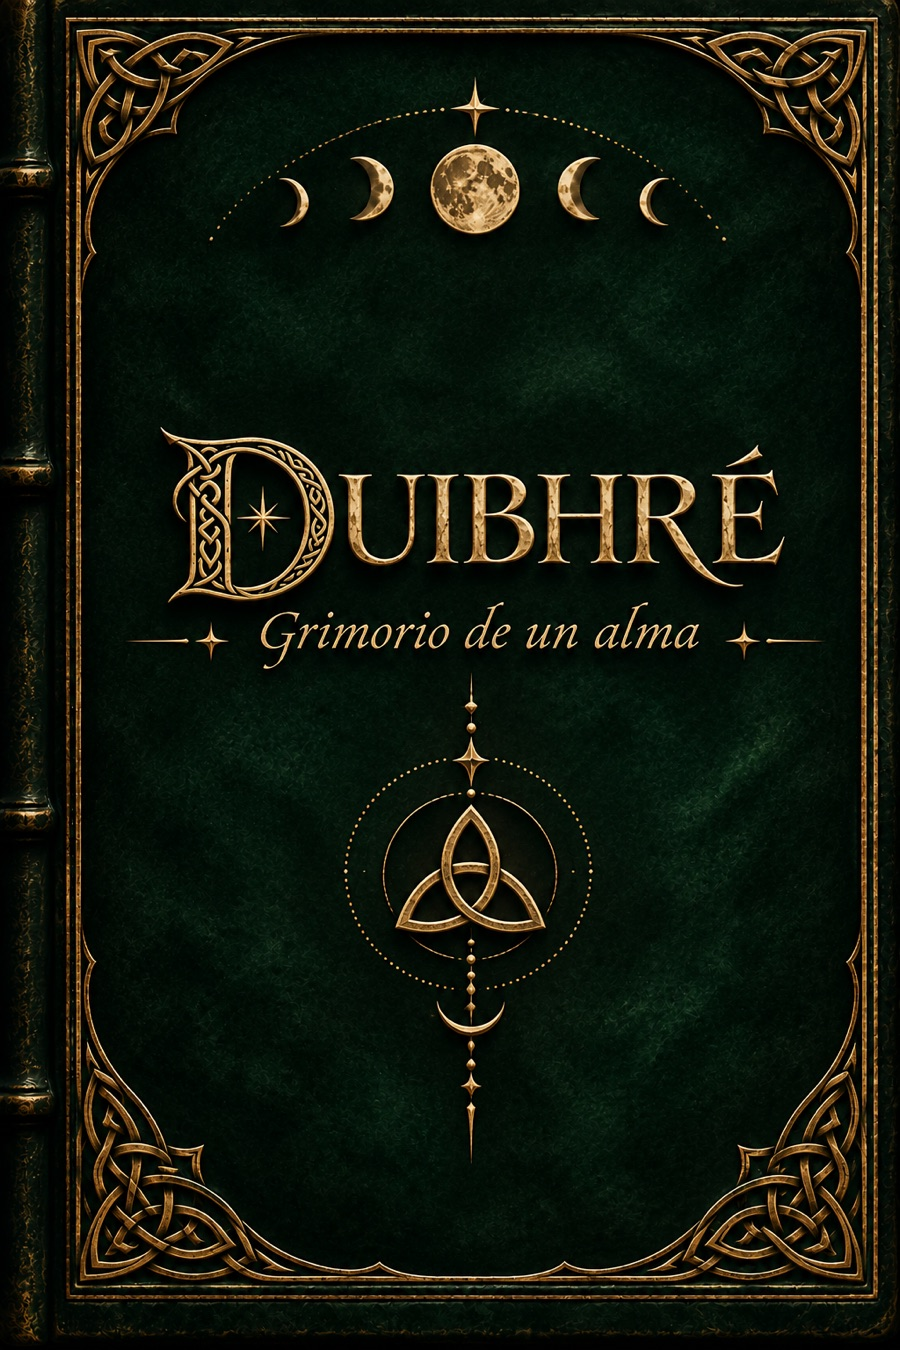
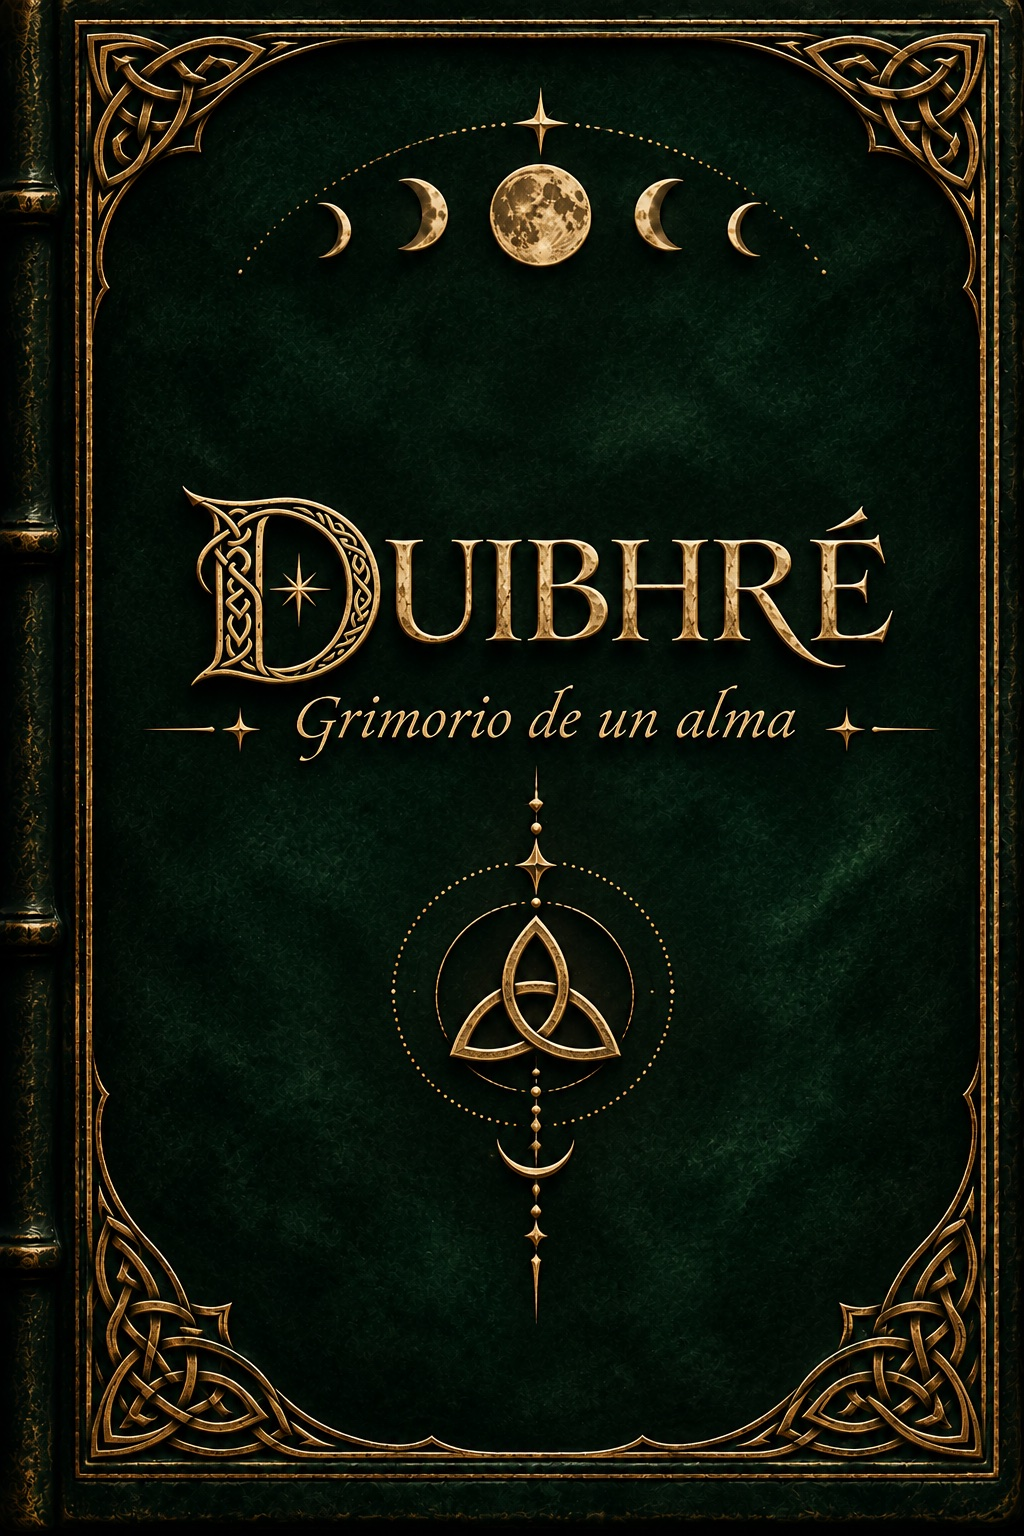
feat(portada): libro completo a pantalla completa y la triquetra abre el grimorio

diff --git a/src/pages/CoverPage.tsx b/src/pages/CoverPage.tsx
@@ -1,15 +1,56 @@
-import { useState } from 'react';
+import { useEffect, useState, type KeyboardEvent } from 'react';
 import { useNavigate } from 'react-router-dom';
 import cover from '../assets/cover/portada-duibhre.jpg';
 import { UI } from '../config/uiCopy';
 
 /**
- * Portada `/` (sección 7.1). Usa la imagen aprobada tal cual; el botón
- * «Abrir grimorio» queda fuera del arte. Tocar la portada también la abre.
+ * Portada `/` (sección 7.1): el libro aprobado se ve completo y llena toda la
+ * pantalla. En pantallas más altas que el libro (celulares) se intercala cuero
+ * liso —entre las lunas y el título, y entre la bajada y la triquetra—, repitiendo
+ * un trozo de la propia tapa, de modo que el arte, el título y los marcos quedan
+ * intactos.
+ * La triquetra es el botón que abre el grimorio.
  */
+const W = 1024;
+const H = 1536;
+/** Cortes donde se intercala cuero liso (en px de la imagen). */
+const GAP_A = 440;
+const GAP_B = 762;
+/** Trozo de cuero liso (con los filetes laterales) que se repite como relleno. */
+const TILE = { from: 330, height: 110 };
+/** Centro y radio de la triquetra en la imagen aprobada. */
+const TRIQUETRA = { cx: 532, cy: 1000, r: 150 };
+
+function useViewportRatio() {
+  const read = () => window.innerHeight / Math.max(1, window.innerWidth);
+  const [ratio, setRatio] = useState(read);
+  useEffect(() => {
+    const onResize = () => setRatio(read());
+    window.addEventListener('resize', onResize);
+    return () => window.removeEventListener('resize', onResize);
+  }, []);
+  return ratio;
+}
+
+/** Trozo de la portada entre `y0` y `y1`, dibujado en `top`. */
+function Band({ y0, y1, top }: { y0: number; y1: number; top: number }) {
+  return (
+    <svg x="0" y={top} width={W} height={y1 - y0} viewBox={`0 ${y0} ${W} ${y1 - y0}`}>
+      <image href={cover} x="0" y="0" width={W} height={H} />
+    </svg>
+  );
+}
+
 export function CoverPage() {
   const navigate = useNavigate();
+  const ratio = useViewportRatio();
   const [opening, setOpening] = useState(false);
+
+  // Altura del lienzo para llenar la pantalla con el ancho completo del libro.
+  const canvasH = Math.max(H, Math.round(W * ratio));
+  const extra = canvasH - H;
+  const eA = Math.round(extra / 2);
+  const eB = extra - eA;
 
   const open = () => {
     if (opening) return;
@@ -21,20 +62,82 @@ export function CoverPage() {
       return;
     }
     setOpening(true);
-    window.setTimeout(() => navigate('/inicio'), 480);
+    window.setTimeout(() => navigate('/inicio'), 650);
   };
+
+  const onKey = (e: KeyboardEvent<SVGGElement>) => {
+    if (e.key === 'Enter' || e.key === ' ') {
+      e.preventDefault();
+      open();
+    }
+  };
+
+  const triquetraY = TRIQUETRA.cy + eA + eB;
 
   return (
     <main className={`cover${opening ? ' is-opening' : ''}`}>
       <h1 className="visually-hidden">
         {UI.appName} — {UI.tagline}
       </h1>
-      <button type="button" className="cover__book" onClick={open} aria-label={UI.openGrimoire}>
-        <img className="cover__art" src={cover} alt={UI.coverAlt} width={900} height={1350} />
-      </button>
-      <button type="button" className="btn btn--gold cover__open" onClick={open}>
-        {UI.openGrimoire}
-      </button>
+      <svg className="cover__stage" viewBox={`0 0 ${W} ${canvasH}`} preserveAspectRatio="xMidYMid meet">
+        <defs>
+          <radialGradient id="triquetraGlow">
+            <stop offset="0%" stopColor="#f3d79a" stopOpacity="0.55" />
+            <stop offset="60%" stopColor="#d9b56a" stopOpacity="0.18" />
+            <stop offset="100%" stopColor="#d9b56a" stopOpacity="0" />
+          </radialGradient>
+          {/* Cuero liso repetido; cada segunda copia va invertida para que no se noten las uniones. */}
+          <pattern id="leatherTile" patternUnits="userSpaceOnUse" width={W} height={TILE.height * 2}>
+            <svg width={W} height={TILE.height} viewBox={`0 ${TILE.from} ${W} ${TILE.height}`}>
+              <image href={cover} x="0" y="0" width={W} height={H} />
+            </svg>
+            <g transform={`translate(0 ${TILE.height * 2}) scale(1 -1)`}>
+              <svg width={W} height={TILE.height} viewBox={`0 ${TILE.from} ${W} ${TILE.height}`}>
+                <image href={cover} x="0" y="0" width={W} height={H} />
+              </svg>
+            </g>
+          </pattern>
+        </defs>
+
+        <g role="img" aria-label={UI.coverAlt}>
+          {extra === 0 ? (
+            <image href={cover} x="0" y="0" width={W} height={H} />
+          ) : (
+            <>
+              <Band y0={0} y1={GAP_A} top={0} />
+              <rect x="0" y={GAP_A} width={W} height={eA} fill="url(#leatherTile)" />
+              <Band y0={GAP_A} y1={GAP_B} top={GAP_A + eA} />
+              <rect x="0" y={GAP_B + eA} width={W} height={eB} fill="url(#leatherTile)" />
+              <Band y0={GAP_B} y1={H} top={GAP_B + eA + eB} />
+            </>
+          )}
+        </g>
+
+        <g
+          className="cover__triquetra"
+          role="button"
+          tabIndex={0}
+          aria-label={UI.openGrimoire}
+          onClick={open}
+          onKeyDown={onKey}
+        >
+          <circle
+            className="cover__glow"
+            cx={TRIQUETRA.cx}
+            cy={triquetraY}
+            r={TRIQUETRA.r}
+            fill="url(#triquetraGlow)"
+          />
+          <circle cx={TRIQUETRA.cx} cy={triquetraY} r={TRIQUETRA.r} fill="transparent" />
+          <circle
+            className="cover__focus"
+            cx={TRIQUETRA.cx}
+            cy={triquetraY}
+            r={TRIQUETRA.r - 8}
+            fill="none"
+          />
+        </g>
+      </svg>
     </main>
   );
 }

diff --git a/src/styles/pages.css b/src/styles/pages.css
@@ -2,43 +2,60 @@
 
 /* ---------- Portada ---------- */
 .cover {
-  display: grid;
-  justify-items: center;
-  align-content: center;
-  gap: var(--space-5);
-  min-height: 100dvh;
-  padding: max(var(--space-4), env(safe-area-inset-top)) var(--space-4)
-    max(var(--space-5), env(safe-area-inset-bottom));
-  perspective: 1600px;
+  position: fixed;
+  inset: 0;
+  overflow: hidden;
+  background: #0b140f;
 }
 
-.cover__book {
-  padding: 0;
-  border: 0;
-  background: none;
-  border-radius: 10px;
+.cover__stage {
+  display: block;
+  width: 100%;
+  height: 100%;
   transform-origin: left center;
   transition:
-    transform 480ms var(--ease),
-    opacity 480ms var(--ease);
+    transform 650ms var(--ease),
+    opacity 650ms var(--ease);
 }
 
-.cover__art {
-  width: min(100%, 440px, calc((100dvh - 140px) / 1.5));
-  height: auto;
-  border-radius: 10px;
-  box-shadow:
-    0 30px 60px rgba(0, 0, 0, 0.6),
-    0 0 0 1px rgba(168, 138, 87, 0.3);
-}
-
-.cover.is-opening .cover__book {
-  transform: rotateY(-28deg) scale(0.98);
+.cover.is-opening .cover__stage {
+  transform: perspective(1800px) rotateY(-24deg) scale(1.02);
   opacity: 0;
 }
 
-.cover__open {
-  min-width: 220px;
+.cover__triquetra {
+  cursor: pointer;
+  outline: none;
+}
+
+.cover__glow {
+  opacity: 0;
+  animation: triquetra-breath 3.2s ease-in-out 1.2s infinite;
+}
+
+.cover__triquetra:hover .cover__glow {
+  opacity: 0.9;
+  animation: none;
+}
+
+.cover__focus {
+  stroke: transparent;
+  stroke-width: 5;
+}
+
+.cover__triquetra:focus-visible .cover__focus {
+  stroke: #f3d79a;
+  stroke-dasharray: 10 8;
+}
+
+@keyframes triquetra-breath {
+  0%,
+  100% {
+    opacity: 0;
+  }
+  50% {
+    opacity: 0.85;
+  }
 }
 
 /* ---------- Inicio ---------- */

diff --git a/src/tests/ui.test.tsx b/src/tests/ui.test.tsx
@@ -96,3 +96,15 @@ describe('Navbar y capítulos', () => {
     expect(screen.getByText(/no se ha generado ninguna imagen/i)).toBeInTheDocument();
   });
 });
+
+describe('Portada', () => {
+  it('no tiene botón «Abrir grimorio» aparte: la triquetra abre el grimorio', async () => {
+    const router = renderAt('/');
+    const triquetra = await screen.findByRole('button', { name: 'Abrir grimorio' });
+    expect(screen.getAllByRole('button')).toHaveLength(1);
+    expect(triquetra.tagName.toLowerCase()).toBe('g');
+    await userEvent.click(triquetra);
+    await new Promise((r) => setTimeout(r, 750));
+    expect(router.state.location.pathname).toBe('/inicio');
+  });
+});
